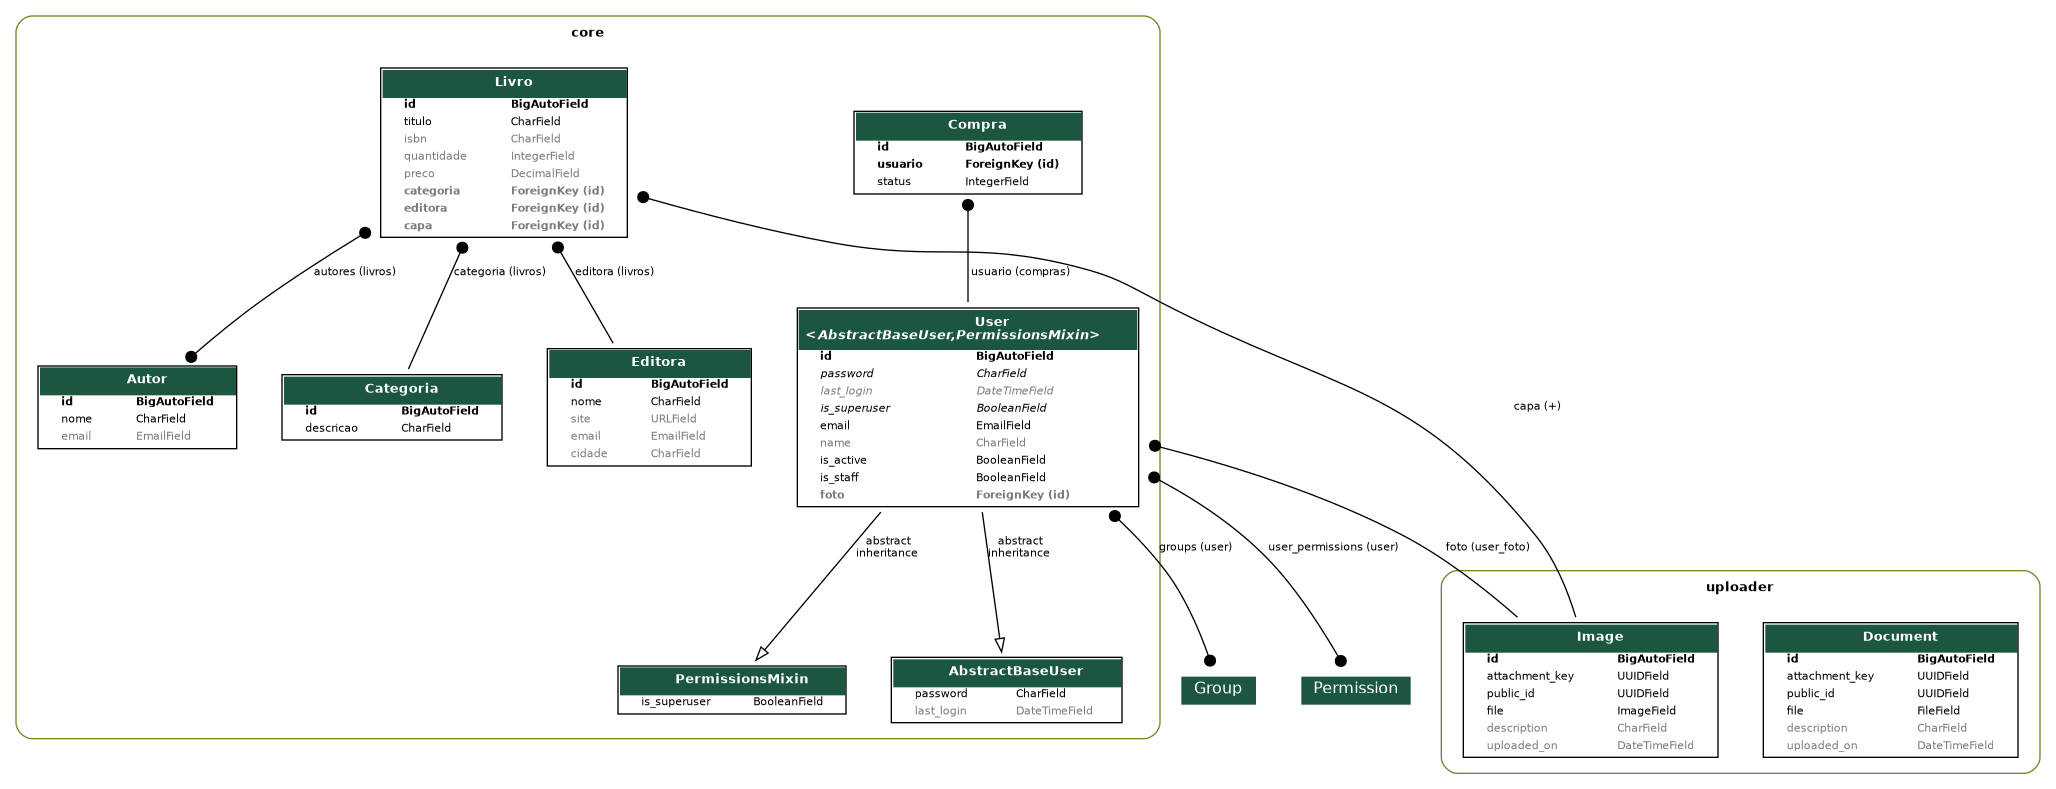
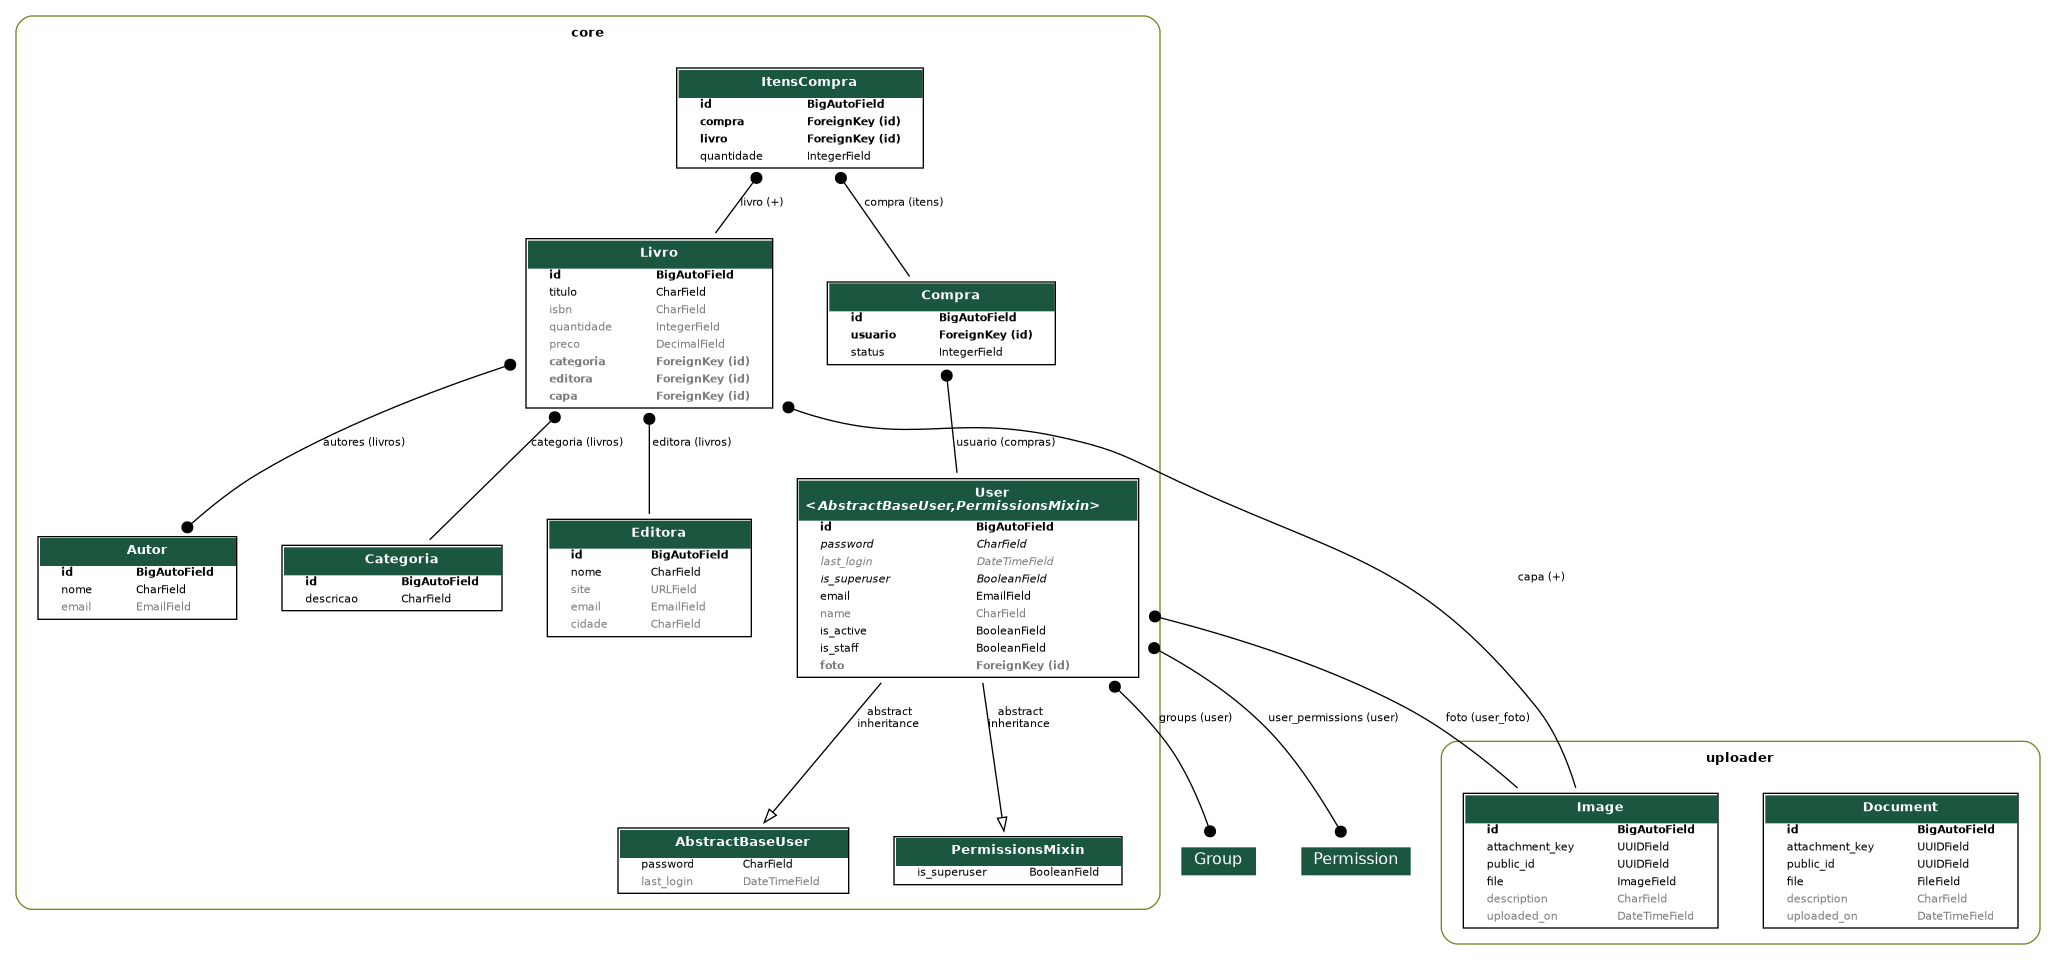
FEAT: Criação dos itens da compra

diff --git a/core/migrations/0015_itenscompra.py b/core/migrations/0015_itenscompra.py
@@ -1,0 +1,23 @@
+# Generated by Django 5.2.13 on 2026-06-16 17:30
+
+import django.db.models.deletion
+from django.db import migrations, models
+
+
+class Migration(migrations.Migration):
+
+    dependencies = [
+        ('core', '0014_compra'),
+    ]
+
+    operations = [
+        migrations.CreateModel(
+            name='ItensCompra',
+            fields=[
+                ('id', models.BigAutoField(auto_created=True, primary_key=True, serialize=False, verbose_name='ID')),
+                ('quantidade', models.IntegerField(default=1)),
+                ('compra', models.ForeignKey(on_delete=django.db.models.deletion.CASCADE, related_name='itens', to='core.compra')),
+                ('livro', models.ForeignKey(on_delete=django.db.models.deletion.PROTECT, related_name='+', to='core.livro')),
+            ],
+        ),
+    ]

diff --git a/core/admin.py b/core/admin.py
@@ -6,7 +6,7 @@ from django.contrib.admin import ModelAdmin, register
 from django.contrib.auth.admin import UserAdmin as BaseUserAdmin
 from django.utils.translation import gettext_lazy as _
 
-from core.models import Autor, Categoria, Compra, Editora, Livro, User
+from core.models import Autor, Categoria, Compra, Editora, ItensCompra, Livro, User
 
 
 @register(Autor)
@@ -31,6 +31,11 @@ class CategoriaAdmin(ModelAdmin):
 class CompraAdmin(ModelAdmin):
     list_display = ('usuario', 'status')
     ordering = ('usuario', 'status')
+    list_per_page = 10
+
+
+@register(ItensCompra)
+class ItensCompraAdmin(ModelAdmin):
     list_per_page = 10
 
 

diff --git a/core/models/compra.py b/core/models/compra.py
@@ -1,5 +1,6 @@
 from django.db import models
 
+from .livro import Livro
 from .user import User
 
 
@@ -12,3 +13,9 @@ class Compra(models.Model):
 
     usuario = models.ForeignKey(User, on_delete=models.PROTECT, related_name='compras')
     status = models.IntegerField(choices=StatusCompra.choices, default=StatusCompra.CARRINHO)
+
+
+class ItensCompra(models.Model):
+    compra = models.ForeignKey(Compra, on_delete=models.CASCADE, related_name='itens')
+    livro = models.ForeignKey(Livro, on_delete=models.PROTECT, related_name='+')
+    quantidade = models.IntegerField(default=1)

diff --git a/core/models/__init__.py b/core/models/__init__.py
@@ -1,6 +1,6 @@
 from .autor import Autor
 from .categoria import Categoria
-from .compra import Compra
+from .compra import Compra, ItensCompra
 from .editora import Editora
 from .livro import Livro
 from .user import User